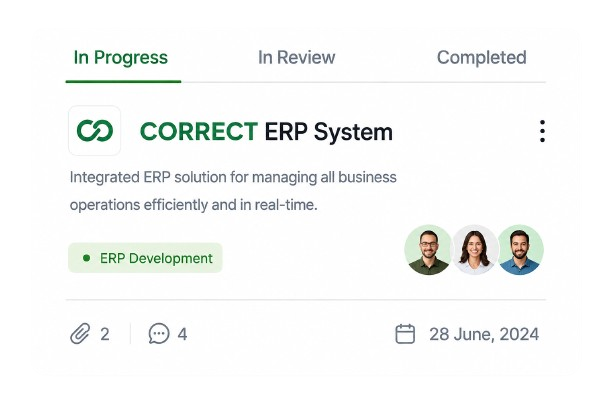
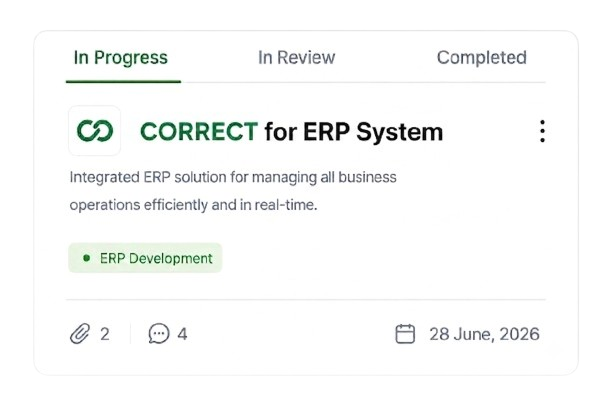
add column chart to about section

diff --git a/src/components/About.jsx b/src/components/About.jsx
@@ -1,12 +1,271 @@
-import { LineChart } from 'lucide-react'
+import { useMemo, useState } from 'react'
+import { motion } from 'framer-motion'
+import { TrendingUp } from 'lucide-react'
 import { useLanguage } from '../i18n/LanguageContext'
 
+// Column heights as a % of the chart's fixed height; the last bar is the
+// highlighted / highest one. Kept well under 100% so the pulse dot and
+// tooltip badge have headroom above it.
+const BARS_BY_PERIOD = {
+  monthly: [38, 58, 34, 70, 46, 80],
+  yearly: [22, 34, 48, 60, 74, 92],
+}
+
+const METRICS_BY_PERIOD = {
+  monthly: { growth: '+34.5%', tooltipValue: '$48,200', tooltipPct: '+96%' },
+  yearly: { growth: '+212%', tooltipValue: '$612,400', tooltipPct: '+312%' },
+}
+
+const HIGHLIGHT_INDEX = BARS_BY_PERIOD.monthly.length - 1
+const GRIDLINE_ROWS = [0.22, 0.44, 0.66, 0.88]
+const MONTH_COUNT = 6
+const YEAR_COUNT = 6
+
+const chartVariants = {
+  hidden: {},
+  visible: {
+    transition: { staggerChildren: 0.12, delayChildren: 0.15 },
+  },
+}
+
+const barVariants = {
+  hidden: { scaleY: 0, opacity: 0 },
+  visible: {
+    scaleY: 1,
+    opacity: 1,
+    transition: { duration: 0.6, ease: 'easeOut' },
+  },
+}
+
+// Last N months ending with the current month, named in the active locale
+// (e.g. "Jan"…"Jun" or "يناير"…"يونيو").
+function getRollingMonthLabels(locale) {
+  const formatter = new Intl.DateTimeFormat(locale, { month: 'short' })
+  const now = new Date()
+  return Array.from({ length: MONTH_COUNT }, (_, i) => {
+    const d = new Date(now.getFullYear(), now.getMonth() - (MONTH_COUNT - 1 - i), 1)
+    return formatter.format(d)
+  })
+}
+
+// Last N years ending with the current year (e.g. 2021…2026).
+function getRollingYearLabels() {
+  const currentYear = new Date().getFullYear()
+  return Array.from({ length: YEAR_COUNT }, (_, i) =>
+    String(currentYear - (YEAR_COUNT - 1 - i)),
+  )
+}
+
 export default function About() {
-  const { t } = useLanguage()
+  const { t, language } = useLanguage()
+  const [period, setPeriod] = useState('monthly')
+
+  const locale = language === 'ar' ? 'ar-EG' : 'en-US'
+  const monthLabels = useMemo(() => getRollingMonthLabels(locale), [locale])
+  const yearLabels = useMemo(() => getRollingYearLabels(), [])
+
+  const labels = period === 'monthly' ? monthLabels : yearLabels
+  const bars = BARS_BY_PERIOD[period]
+  const metrics = METRICS_BY_PERIOD[period]
 
   return (
     <section id="about" className="py-40 sm:py-52 bg-white border-t border-black/5 dark:bg-[#0b0d10] dark:border-white/5">
       <div className="max-w-6xl mx-auto px-4 sm:px-6 grid md:grid-cols-2 gap-12 items-center">
+        {/* Rendered first in the DOM so the grid's direction-aware auto-placement
+            puts it on the right in Arabic (RTL) and on the left in English (LTR). */}
+        <div data-reveal className="relative flex items-center justify-center md:justify-start">
+          <motion.div
+            aria-hidden="true"
+            animate={{ scale: [1, 1.1, 1], opacity: [0.7, 1, 0.7] }}
+            transition={{ duration: 6, repeat: Infinity, ease: 'easeInOut' }}
+            className="absolute h-64 w-64 rounded-full bg-brand/15 blur-3xl dark:bg-brand/10"
+          />
+
+          <motion.div
+            initial="hidden"
+            whileInView="visible"
+            viewport={{ once: true, amount: 0.5 }}
+            variants={chartVariants}
+            className="relative w-full max-w-md rounded-2xl border border-black/5 bg-white p-6 shadow-xl dark:border-white/10 dark:bg-[#12161b]"
+          >
+            {/* Title + time-range filter chips */}
+            <div className="flex items-center justify-between gap-2">
+              <h3 className="text-sm font-bold text-ink dark:text-white">
+                {t.about.chart.title}
+              </h3>
+              <div className="flex items-center gap-0.5 rounded-full bg-black/5 p-0.5 dark:bg-white/5">
+                {[
+                  { key: 'monthly', label: t.about.chart.monthly },
+                  { key: 'yearly', label: t.about.chart.yearly },
+                ].map((option) => (
+                  <button
+                    key={option.key}
+                    type="button"
+                    onClick={() => setPeriod(option.key)}
+                    aria-pressed={period === option.key}
+                    className={`rounded-full px-2.5 py-1 text-[11px] font-semibold transition-colors ${
+                      period === option.key
+                        ? 'bg-white text-ink shadow-sm dark:bg-white/10 dark:text-white'
+                        : 'text-body/70 hover:text-body dark:text-gray-500 dark:hover:text-gray-300'
+                    }`}
+                  >
+                    {option.label}
+                  </button>
+                ))}
+              </div>
+            </div>
+
+            {/* Growth metric */}
+            <div className="mb-6 mt-3 flex items-center gap-2">
+              <span className="relative flex h-8 w-8 shrink-0 items-center justify-center rounded-full bg-brand/10 text-brand">
+                <motion.span
+                  aria-hidden="true"
+                  animate={{ scale: [1, 1.7], opacity: [0.5, 0] }}
+                  transition={{ duration: 2, repeat: Infinity, ease: 'easeOut' }}
+                  className="absolute inset-0 rounded-full bg-brand/60"
+                />
+                <motion.span
+                  animate={{ y: [0, -2, 0] }}
+                  transition={{ duration: 2.2, repeat: Infinity, ease: 'easeInOut' }}
+                  className="relative flex"
+                >
+                  <TrendingUp className="h-4 w-4" strokeWidth={2.5} />
+                </motion.span>
+              </span>
+              <motion.span
+                key={metrics.growth}
+                initial={{ opacity: 0, y: -6 }}
+                animate={{ opacity: 1, y: 0 }}
+                transition={{ duration: 0.3 }}
+                className="text-xl font-extrabold text-brand"
+              >
+                {metrics.growth}
+              </motion.span>
+            </div>
+
+            {/* Chart plot */}
+            <div className="relative h-44">
+              <svg
+                aria-hidden="true"
+                className="absolute inset-0 h-full w-full overflow-visible"
+              >
+                {GRIDLINE_ROWS.map((frac) => (
+                  <line
+                    key={frac}
+                    x1="0"
+                    x2="100%"
+                    y1={`${frac * 100}%`}
+                    y2={`${frac * 100}%`}
+                    strokeDasharray="4 4"
+                    strokeWidth="1"
+                    className="stroke-black/5 dark:stroke-white/5"
+                  />
+                ))}
+              </svg>
+
+              <div className="relative flex h-full items-end justify-between gap-2.5">
+                {bars.map((height, i) => {
+                  const isHighlight = i === HIGHLIGHT_INDEX
+                  return (
+                    <div key={i} className="relative flex h-full flex-1 items-end">
+                      {isHighlight && (
+                        <>
+                          {/* Floating tooltip badge with exact figures */}
+                          <motion.div
+                            initial={{ opacity: 0, y: 6 }}
+                            whileInView={{ opacity: 1, y: 0 }}
+                            viewport={{ once: true, amount: 0.5 }}
+                            transition={{ delay: 1, duration: 0.4 }}
+                            style={{ bottom: `calc(${height}% + 18px)` }}
+                            className="absolute end-0 z-20 whitespace-nowrap rounded-lg bg-[#0b0d10] px-2.5 py-1.5 text-[11px] font-semibold text-white shadow-lg transition-[bottom] duration-300 ease-out"
+                          >
+                            <motion.span
+                              animate={{ y: [0, -3, 0] }}
+                              transition={{ duration: 2.8, repeat: Infinity, ease: 'easeInOut' }}
+                              className="block"
+                            >
+                              {t.about.chart.tooltipLabel}: {metrics.tooltipValue} | {metrics.tooltipPct}
+                            </motion.span>
+                            <span className="absolute end-3 top-full -mt-1 h-2 w-2 rotate-45 bg-[#0b0d10]" />
+                          </motion.div>
+
+                          {/* Pulsing indicator at the bar's tip */}
+                          <div
+                            aria-hidden="true"
+                            style={{ bottom: `${height}%` }}
+                            className="absolute start-1/2 z-20 -translate-x-1/2 -translate-y-1/2 transition-[bottom] duration-300 ease-out"
+                          >
+                            <motion.span
+                              animate={{ scale: [1, 2.2], opacity: [0.55, 0] }}
+                              transition={{ duration: 1.6, repeat: Infinity, ease: 'easeOut' }}
+                              className="absolute inset-0 rounded-full bg-brand"
+                            />
+                            <span className="relative block h-2 w-2 rounded-full bg-brand shadow-[0_0_8px_rgba(31,162,74,0.9)]" />
+                          </div>
+
+                          <motion.div
+                            aria-hidden="true"
+                            animate={{ opacity: [0.35, 0.75, 0.35] }}
+                            transition={{ duration: 2.4, repeat: Infinity, ease: 'easeInOut' }}
+                            style={{ height: `${height}%` }}
+                            className="absolute inset-x-0 bottom-0 rounded-t-lg bg-brand blur-md transition-[height] duration-300 ease-out"
+                          />
+                        </>
+                      )}
+
+                      <motion.div
+                        variants={barVariants}
+                        style={{ height: `${height}%`, transformOrigin: 'bottom' }}
+                        className={`relative z-10 w-full rounded-t-lg transition-[height,transform] duration-300 ease-out hover:-translate-y-1 ${
+                          isHighlight
+                            ? 'bg-gradient-to-t from-brand to-emerald-400 shadow-[0_0_16px_rgba(31,162,74,0.55)]'
+                            : 'bg-brand/25 hover:bg-brand/40 dark:bg-brand/20 dark:hover:bg-brand/35'
+                        }`}
+                      />
+
+                      {isHighlight ? (
+                        // Light sweep gliding up through the highlighted bar on a loop
+                        <div
+                          aria-hidden="true"
+                          style={{ height: `${height}%` }}
+                          className="pointer-events-none absolute inset-x-0 bottom-0 z-10 overflow-hidden rounded-t-lg transition-[height] duration-300 ease-out"
+                        >
+                          <motion.div
+                            animate={{ y: ['120%', '-120%'] }}
+                            transition={{ duration: 2.2, repeat: Infinity, repeatDelay: 1.6, ease: 'easeInOut' }}
+                            className="absolute inset-x-0 h-1/2 bg-gradient-to-b from-transparent via-white/50 to-transparent"
+                          />
+                        </div>
+                      ) : (
+                        // Subtle staggered breathing pulse to keep the rest of the chart feeling alive
+                        <motion.div
+                          aria-hidden="true"
+                          animate={{ opacity: [0.4, 0.85, 0.4] }}
+                          transition={{ duration: 3, repeat: Infinity, ease: 'easeInOut', delay: i * 0.25 }}
+                          style={{ height: `${height}%` }}
+                          className="pointer-events-none absolute inset-x-0 bottom-0 z-10 rounded-t-lg bg-white/30 transition-[height] duration-300 ease-out dark:bg-white/5"
+                        />
+                      )}
+                    </div>
+                  )
+                })}
+              </div>
+            </div>
+
+            {/* X-axis labels */}
+            <div className="mt-2 flex items-center justify-between gap-2.5">
+              {labels.map((label, i) => (
+                <span
+                  key={`${period}-${i}`}
+                  className="flex-1 text-center text-[10px] font-medium text-body/60 dark:text-gray-500"
+                >
+                  {label}
+                </span>
+              ))}
+            </div>
+          </motion.div>
+        </div>
+
         <div data-reveal>
           <h2 className="text-3xl font-bold mb-6">{t.about.title}</h2>
           <p className="text-lg leading-relaxed mb-4 dark:text-gray-400">
@@ -15,13 +274,6 @@ export default function About() {
           <p className="text-lg font-semibold text-brand-dark dark:text-green-400">
             {t.about.trusted}
           </p>
-        </div>
-
-        <div data-reveal className="flex items-center justify-center md:justify-end ">
-          <div className="relative flex h-64 w-64 items-center justify-center rounded-full bg-brand-tint dark:bg-white/5">
-            <div className="absolute inset-4 rounded-full border-2 border-brand/20" />
-            <LineChart className="h-24 w-24 text-brand" strokeWidth={1.5} />
-          </div>
         </div>
       </div>
     </section>

diff --git a/src/data/content.ar.js b/src/data/content.ar.js
@@ -32,6 +32,12 @@ export default {
     title: 'مرحبًا بك في كوركت لخدمات المحاسبة',
     body: 'ارتقِ بأعمالك من خلال حلول مسك الدفاتر الشاملة لدينا. من التسجيل الدقيق للبيانات إلى الرؤى المالية الاستراتيجية، نحن ملتزمون بنجاحك المالي.',
     trusted: 'شريكك الموثوق في الأرقام.',
+    chart: {
+      title: 'معدل النمو المالي',
+      monthly: 'شهري',
+      yearly: 'سنوي',
+      tooltipLabel: 'الأرباح',
+    },
   },
   services: {
     title: 'خدماتنا',

diff --git a/src/data/content.en.js b/src/data/content.en.js
@@ -32,6 +32,12 @@ export default {
     title: 'Welcome to Correct For Accounting Service',
     body: "Elevate your business with our comprehensive bookkeeping solutions. From accurate record-keeping to strategic financial insights, we're dedicated to your financial success.",
     trusted: 'Your trusted partner in numbers.',
+    chart: {
+      title: 'Financial Growth Rate',
+      monthly: 'Monthly',
+      yearly: 'Yearly',
+      tooltipLabel: 'Profit',
+    },
   },
   services: {
     title: 'Our Services',
